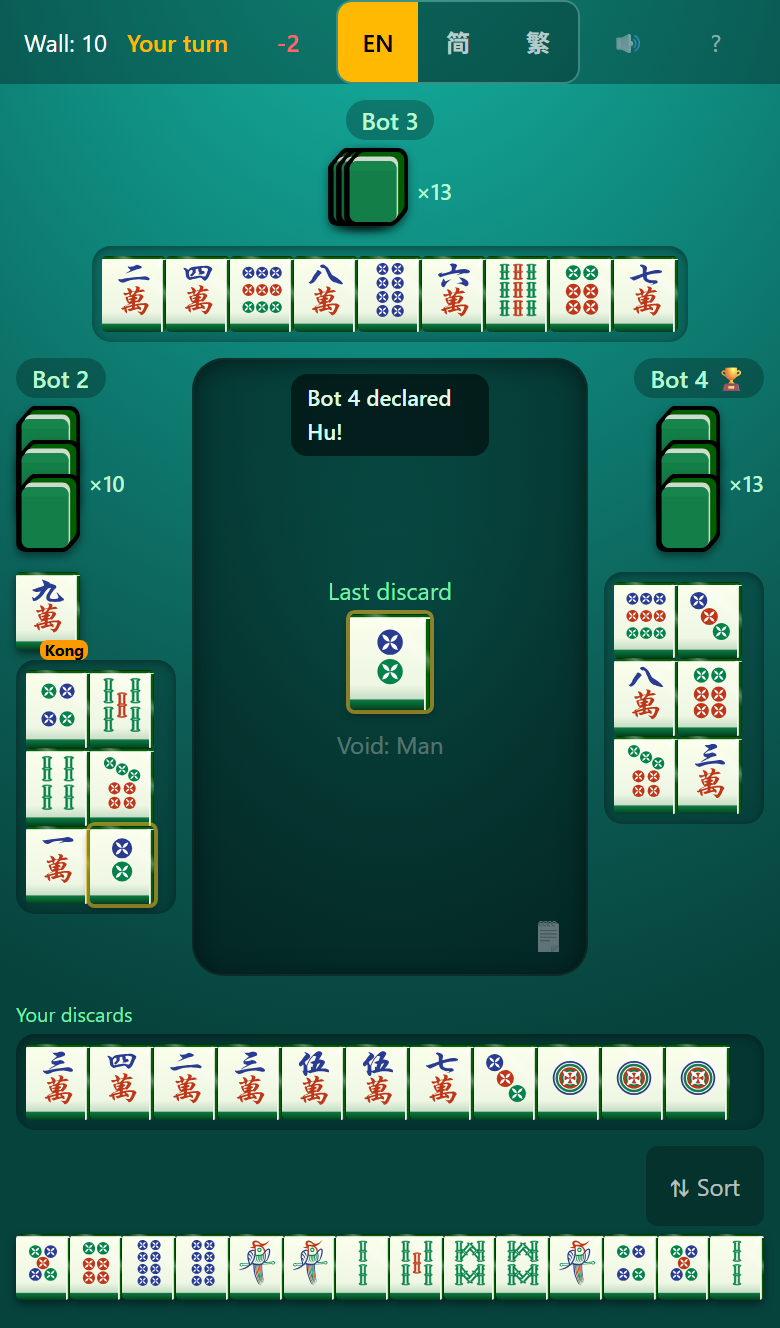
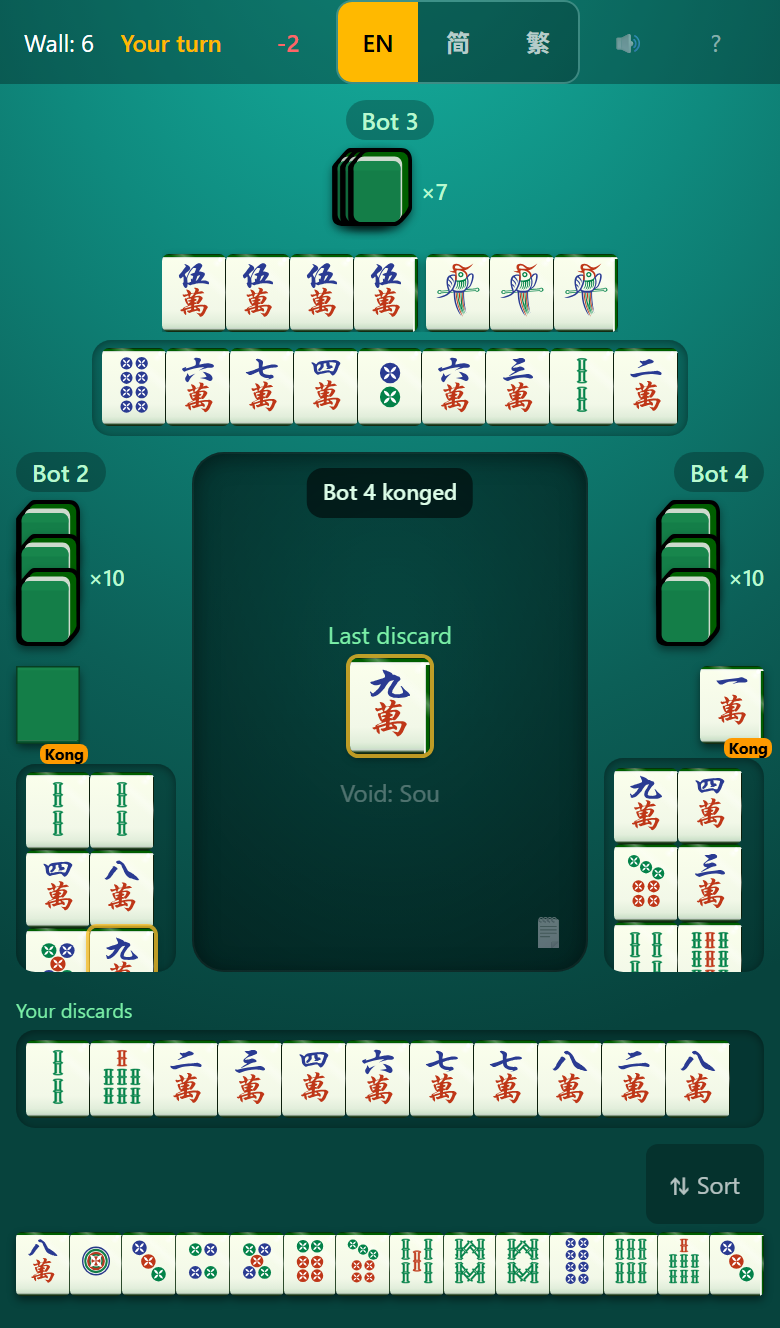
fix(client): round the tile corners, and show its side only when exposed
Two corrections to the shoulders work, both from comparing against the art.

The bottom was still R7's deep green front edge, which had the emphasis
backwards: the art's green side layer insets top 5% and right 5.5% but
bottom 12.9% and left 20.6%, so it never reaches either of those edges —
they show the pale plate and the outline. The bottom is a thin
plate-and-outline edge now, with the green on the top and right where the
art puts it.

The right shoulder was on every tile, so a run showed a green side between
each pair. It now shows only where nothing abuts the tile — a lone tile, or
a run's last child — and elsewhere draws the art's outline as a hairline
seam, which is what two flush tiles actually show between them: one shared
edge, not two sides. Swapped via --tile-side.

Trays keep the seam throughout, deliberately. A wrapping tray's
:last-child is the end of its LAST ROW, which sits mid-block whenever that
row is partial, so the one tile with a green side would be a stray in the
middle of the pile. "Last in a wrapped row" isn't expressible in CSS, and
adding a gap so every tile's side is legitimately exposed would cost the
density R7 bought.

Corners are a proportional radius, 10.5% / 8.6% — two values so the corner
stays circular on a 210x255 box. A fixed rem that reads as a tile at the
64px round-end size is a blob at the 23px hand size; checked at 64/40/28/23.

The shallower front edge freed height, so the glyph box grows 89% -> 93%:
[…]

diff --git a/packages/client/src/index.css b/packages/client/src/index.css
@@ -115,32 +115,51 @@ body {
    top-right shoulder rather than on the face, which is what makes it read as a
    glazed edge catching light instead of a stain on the ivory.
 
-   A back covers the whole cell (`.tile-glyph.is-back`), so it hides all of this
-   and keeps painting its own edge.
+   The art puts green on the top and right *only*: the side layer's insets are
+   top 5% and right 5.5%, but bottom 12.9% and left 20.6% — so it never reaches
+   either of those edges, which show the pale plate and the outline instead. The
+   bottom is therefore a thin plate-and-outline edge here too, not the deep green
+   front edge R7 gave it; that had the emphasis backwards.
+
+   The right SHOULDER only shows where nothing abuts the tile — the end of a run,
+   or a lone tile. Elsewhere it is the art's outline as a hairline seam, which is
+   what two flush tiles actually show between them: one shared edge, not two
+   sides. Trays are deliberately left on the seam throughout; see below.
+
+   A back covers the whole cell (`.tile-glyph.is-back`) and paints its own edge,
+   which `flatten-tiles.mjs` splits at 243 to match the faces' 95.4%.
 
    Six layers, topmost first: the specular's hard dot, its soft blob, its diagonal
-   streak; then the top shoulder — before the right one, so it runs unbroken from
-   corner to corner; then the right shoulder, face outwards through white, plate,
-   side, outline; then the face itself, ending in the front edge. */
+   streak; then the top shoulder — before the side, so it runs unbroken from corner
+   to corner; then the side; then the face, ending in its edge. */
 .tile-cell {
   --tile-face: linear-gradient(
     #fbffec 0%,
-    #eef6e4 74%,
-    #d0e4cc 85%,
-    #cddacd 88.5%,
-    #0b7a3f 89.5%,
-    #06522a 97%,
-    #033c1d 100%
+    #f2f8e8 72%,
+    #e2eedb 88%,
+    #d0e4cc 93.5%,
+    #cddacd 95.4%,
+    #8fa48c 96.6%,
+    #20401f 98.2%,
+    #0d1f0c 100%
   );
   --tile-top: linear-gradient(
     to bottom,
-    #06340a 0 1.2%,
-    #005f00 1.2% 3.4%,
-    #cddacd 3.4% 4.5%,
-    #f6faee 4.5% 5.6%,
-    rgba(0, 0, 0, 0) 5.6%
+    #06340a 0 1.3%,
+    #005f00 1.3% 4.1%,
+    #cddacd 4.1% 5.4%,
+    #f6faee 5.4% 6.8%,
+    rgba(0, 0, 0, 0) 6.8%
   );
-  --tile-right: linear-gradient(
+  /* Flush against a neighbour: the shared edge only, as the art's outline. */
+  --tile-seam: linear-gradient(
+    to right,
+    rgba(0, 0, 0, 0) 98.4%,
+    #2c4a2b 98.4% 99.2%,
+    #0d1f0c 99.2% 100%
+  );
+  /* Nothing to the right of it: the whole side, face outwards. */
+  --tile-shoulder: linear-gradient(
     to right,
     rgba(0, 0, 0, 0) 92.5%,
     #f6faee 92.5% 94%,
@@ -148,13 +167,14 @@ body {
     #005f00 95.6% 98.6%,
     #06340a 98.6% 100%
   );
+  --tile-side: var(--tile-seam);
   --tile-gloss-dot: radial-gradient(
-    circle at 91.5% 6.5%,
+    circle at 91% 7.5%,
     rgba(255, 255, 255, 0.98) 0 1.5%,
     rgba(255, 255, 255, 0) 3%
   );
   --tile-gloss-blob: radial-gradient(
-    ellipse 11% 8% at 87% 11%,
+    ellipse 11% 8% at 86.5% 12%,
     rgba(255, 255, 255, 0.66),
     rgba(255, 255, 255, 0) 72%
   );
@@ -165,17 +185,34 @@ body {
     rgba(255, 255, 255, 0) 78%
   );
   background: var(--tile-gloss-dot), var(--tile-gloss-blob), var(--tile-gloss-streak),
-    var(--tile-top), var(--tile-right), var(--tile-face);
-  border-radius: 0.15rem;
+    var(--tile-top), var(--tile-side), var(--tile-face);
+  /* Proportional, not a fixed rem: the corner has to stay the same shape on a 64px
+     round-end tile and a 23px hand tile, and a radius that reads as a tile at one
+     size is a blob at the other. Two values so the corner stays circular on a
+     210x255 box — 10.5% of the width equals 8.6% of the height. */
+  border-radius: 10.5% / 8.6%;
 }
 
-/* The glyph belongs on the face, not across the bevel, so its box is the face
-   area only — the 89% above where the front edge starts. The SVGs are framed on
-   the glyph's own centre (scripts/tiles/measure-glyphs.mjs), so centring the box
-   centres the symbol. */
+/* The tiles whose right side is exposed, and so show the whole thing rather than
+   the seam: a lone tile, and the last of a run. Runs only — a wrapping tray's
+   `:last-child` is the end of its *last row*, which sits mid-block whenever that
+   row is partial, so the one tile with a green side would be a stray in the middle
+   of the pile. Every tray tile keeps the seam. */
+.tile-solo,
+.tile-run > .tile-cell:last-child,
+.tile-run > *:last-child .tile-cell {
+  --tile-side: var(--tile-shoulder);
+}
+
+/* The glyph belongs on the face, not across the shoulders, so its box is the face
+   area — up to where the front edge starts. The SVGs are framed on the glyph's own
+   centre (scripts/tiles/measure-glyphs.mjs), so centring the box centres the
+   symbol. 93%, up from 89%: the front edge is shallower now, and the extra height
+   both re-centres the glyph in the taller face and buys clearance under the wider
+   top shoulder. */
 .tile-glyph {
   width: 100%;
-  height: 89%;
+  height: 93%;
   object-fit: contain;
 }
 

diff --git a/TODO.md b/TODO.md
@@ -1,5 +1,37 @@
 # TODO
 
+## ✅ Rounded corners, and the side shows only when it's exposed (2026-08-01)
+
+Follow-up to the shoulders work below: round the corners, and show the sides the
+art shows — the right one "unless it's stacked against another tile", and the top.
+Both were right, and the second one exposed that the first pass had kept R7's
+emphasis rather than the art's.
+
+- [x] **The bottom is a thin plate-and-outline edge now, not a deep green one.**
+  The art's green side layer insets are top 5% and right 5.5% but **bottom 12.9%
+  and left 20.6%** — it never reaches those edges, which show the pale plate and
+  the outline instead. R7's thick green front edge was its own invention, and
+  keeping it while adding thin top/right shoulders had the emphasis backwards.
+- [x] **The right shoulder shows only where nothing abuts the tile** — the end of
+  a run, or a lone tile. Elsewhere it is the art's outline as a hairline seam,
+  which is what two flush tiles really show between them: one shared edge, not two
+  sides. Driven by `--tile-side` swapped in `.tile-solo` and on a run's last child.
+- [x] **Trays keep the seam throughout, deliberately.** A wrapping tray's
+  `:last-child` is the end of its *last row*, which sits mid-block whenever that
+  row is partial — so the one tile with a green side would be a stray in the middle
+  of the pile. "Last in a wrapped row" isn't expressible in CSS, and a gap to make
+  every tile's side legitimately exposed would cost the density R7 bought.
+- [x] **A proportional radius, `10.5% / 8.6%`.** A fixed rem that reads as a tile
+  at 64px is a blob at the 23px hand size; two values keep the corner circular on a
+  210×255 box. Checked at 64/40/28/23px.
+- [x] **The glyph box grew 89% → 93%**, which the shallower front edge freed. It
+  re-centres the glyph in the taller face and buys clearance under the wider top
+  shoulder — so the glyphs got slightly *larger*, not smaller.
+- [x] **The flat back's own edge moved with them**, 227 → 243 in
+  `flatten-tiles.mjs`, or a back would have drawn a visibly deeper edge than the
+  faces beside it in a tray or a concealed kong. Regenerated; the committed-output
+  test passes against the script.
+
 ## ✅ The flat cell gets the art's shoulders and its gloss back (2026-08-01)
 
 The flat cell kept only a bottom front edge, so beside the original art it read

diff --git a/docs/handoff-2026-08-01.md b/docs/handoff-2026-08-01.md
@@ -67,15 +67,26 @@ record is
   was 19.1px wide against a ~24px readability floor and it is the only thing a
   player taps.
 - **The flat cell reproduces the art's own layer order** — outline, `#005f00`
-  side, `#cddacd` plate, white, face — on the top and right, compressed to
-  5.6%/7.5% from the measured 20.6%/22.5%, plus the art's top-right specular. The
-  measurements are tabulated in TODO. Compressing rather than copying is the
-  point: the literal insets would hand back the glyph width R7 won, and the
-  compressed bands fit inside the glyphs' existing margins so nothing shrank.
+  side, `#cddacd` plate, white, face — on the top and right, compressed to 6.8% of
+  the height and 7.5% of the width from the measured 20.6%/22.5%, plus its
+  top-right specular. The measurements are tabulated in TODO. Compressing rather
+  than copying is the point: the literal insets would hand back the glyph width R7
+  won, while the compressed bands fit inside the glyphs' existing margins — so the
+  glyphs actually grew, 89% → 93% of the cell.
 - **Bevel on top+right specifically, never left+right.** A right shoulder meets
   the next tile's bare face, so flush neighbours show one shared edge; left+right
   is what doubled up and started the whole flat-tile exercise.
-- **Tiles are flush with a bottom bevel.** Fully flat read as a printed sheet;
+- **The right side shows only when exposed** — a lone tile, or a run's last child.
+  Everything else, trays included, gets a hairline seam. Trays can't do better:
+  "last in a wrapped row" is not expressible in CSS, and `:last-child` there sits
+  mid-block whenever the final row is partial.
+- **The corner radius is proportional, not a rem.** A radius that reads as a tile
+  at 64px is a blob at the 23px hand size.
+- ~~**Tiles are flush with a bottom bevel.**~~ Superseded: the deep green front
+  edge was R7's own invention, and the art has no green on the bottom at all (its
+  side layer insets 12.9% from the bottom). The bottom is a thin plate-and-outline
+  edge now, with the green on the top and right where the art puts it. Original
+  reasoning kept below for the record — fully flat *did* read as a printed sheet;
   the left/right/top bevels were the ones that doubled up between neighbours.
 - ~~**Singletons keep the 3D art**~~ — reversed later the same day; see the tile-face
   entry above.

diff --git a/CLAUDE.md b/CLAUDE.md
@@ -161,11 +161,22 @@ hand-count stack keeps 3D backs — flat backs overlapped merge into one slab.
 **`.tile-cell` rebuilds the art's body in CSS** — the source layers' own order
 (outline → `#005f00` side → `#cddacd` plate → white → face) on the **top and
 right**, plus the art's top-right specular. Those are the two sides the art shows
-(it is lit from the bottom-left) and the two that *can't* double up between flush
-neighbours, unlike left+right. Compressed from the measured 20.6%/22.5% insets to
-5.6%/7.5% so it fits inside the glyphs' existing margins and no glyph shrinks; the
-measurements are in [TODO.md](./TODO.md). Layers are named custom properties
-because Biome reflows a six-layer `background` and eats inline comments.
+(it is lit from the bottom-left, so its green never reaches the bottom or left
+edge) and the two that *can't* double up between flush neighbours, unlike
+left+right. Compressed from the measured 20.6%/22.5% insets so it fits inside the
+glyphs' existing margins and no glyph shrinks; measurements in
+[TODO.md](./TODO.md).
+
+- The **right side shows only when exposed** — `.tile-solo`, or a `.tile-run`'s
+  last child, via `--tile-side`. Everything else gets a hairline seam, the one
+  shared edge two flush tiles show. Trays keep the seam throughout on purpose: a
+  wrapping tray's `:last-child` sits mid-block when the last row is partial.
+- The **corner radius is proportional** (`10.5% / 8.6%`), because a fixed rem that
+  reads as a tile at 64px is a blob at the 23px hand size.
+- Layers are **named custom properties**: Biome reflows a six-layer `background`
+  and drags inline comments into the middle of the declaration.
+- The flat back's front edge (`flatten-tiles.mjs`) splits at **243**, matching the
+  faces — a back covers the whole cell, so a mismatch shows in trays and kongs.
 
 **Open** (see the last section of [TODO.md](./TODO.md)): a central discard pool is
 held as a fallback, and needs a deliberate reveal for opponents' void suits — A40
